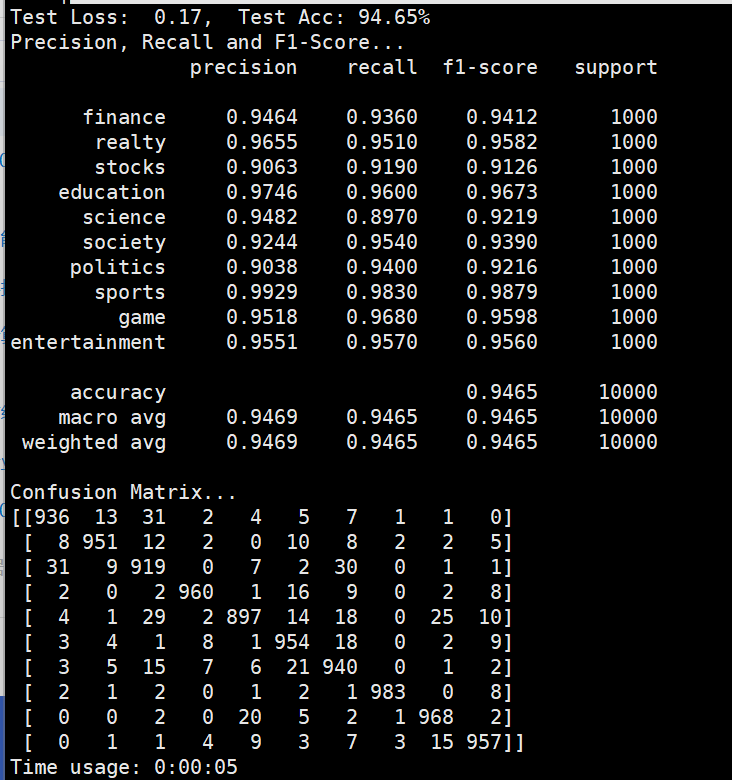
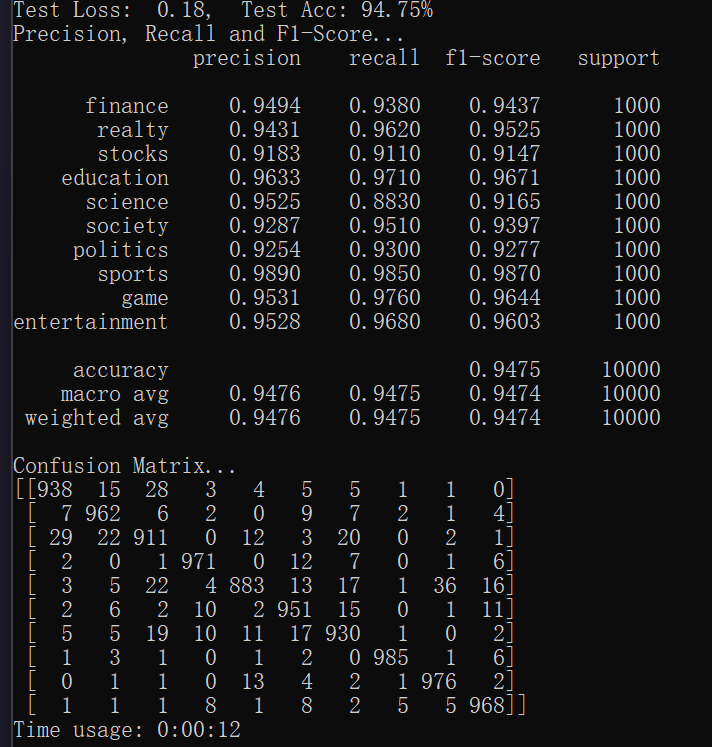
添加模型测试文件test以及添加macbert结果图

diff --git a/toutiao/bert_distil/src/test.py b/toutiao/bert_distil/src/test.py
@@ -1,0 +1,90 @@
+import os
+import pickle
+import torch
+
+# 让 data / saved_dict 的相对路径始终相对本脚本所在目录解析，避免受启动位置影响
+os.chdir(os.path.dirname(os.path.abspath(__file__)))
+
+from models.textCNN import Model, Config
+
+
+dataset = "toutiao"
+config = Config(dataset)
+
+# 训练时 n_vocab 是在 build_dataset_CNN 里赋值的，这里同样从词表读取
+with open(config.vocab_path, "rb") as f:
+    vocab = pickle.load(f)
+config.n_vocab = len(vocab)
+
+device = torch.device("cuda" if torch.cuda.is_available() else "cpu")
+
+# ---- 构建模型并加载训练好的权重 ----
+model = Model(config).to(device)
+checkpoint = torch.load(config.save_path, map_location=device, weights_only=True)
+model.load_state_dict(checkpoint)
+model.eval()
+
+print(f"已加载模型：{config.save_path}")
+print(f"词表大小：{config.n_vocab}，类别数：{config.num_classes}")
+print(f"类别：{config.class_list}")
+
+
+def _text_to_ids(text, pad_size=config.pad_size):
+    """和训练时一致的预处理：char 级分词 -> 截断/填充 -> 映射为 id"""
+    token = list(text)
+    if len(token) < pad_size:
+        token += ["[PAD]"] * (pad_size - len(token))
+    else:
+        token = token[:pad_size]
+    return [vocab.get(ch, vocab["[UNK]"]) for ch in token]
+
+
+def text_to_input(text):
+    """把单条文本转成模型输入；返回元组 (x, seq_len)，与训练时 DatasetIterater 的格式一致"""
+    x = torch.LongTensor(_text_to_ids(text)).unsqueeze(0).to(device)  # [1, pad_size]
+    seq_len = torch.LongTensor([min(len(text), config.pad_size)]).to(device)
+    return (x, seq_len)
+
+
+def predict(text):
+    """返回 (类别名, 预测索引, 输出logits)"""
+    inputs = text_to_input(text)
+    with torch.inference_mode():
+        outputs = model(inputs)
+    pred = torch.argmax(outputs, dim=1).item()
+    return config.class_list[pred], pred, outputs
+
+
+def evaluate_test_set(batch_size=256):
+    """在测试集上统计准确率，验证模型加载与预测是否正确"""
+    texts, labels = [], []
+    with open(config.test_path, "r", encoding="UTF-8") as f:
+        for line in f:
+            line = line.strip()
+            if not line:
+                continue
+            content, label = line.split("\t")
+            texts.append(content)
+            labels.append(int(label))
+
+    correct, total = 0, len(texts)
+    with torch.inference_mode():
+        for i in range(0, total, batch_size):
+            batch_texts = texts[i:i + batch_size]
+            batch_labels = labels[i:i + batch_size]
+            x = torch.LongTensor([_text_to_ids(t) for t in batch_texts]).to(device)
+            seq_len = torch.LongTensor([min(len(t), config.pad_size) for t in batch_texts]).to(device)
+            outputs = model((x, seq_len))
+            preds = torch.argmax(outputs, dim=1).cpu().numpy()
+            correct += sum(int(p == l) for p, l in zip(preds, batch_labels))
+    print(f"测试集准确率：{correct}/{total} = {correct / total:.2%}")
+
+
+if __name__ == "__main__":
+    sample = "2011年高考文科综合试题(重庆卷)"
+    label, pred, outputs = predict(sample)
+    print(f"\n输入文本：{sample}")
+    print(f"模型输出：{outputs}")
+    print(f"预测类别：{label}（索引 {pred}）")
+
+    evaluate_test_set()
